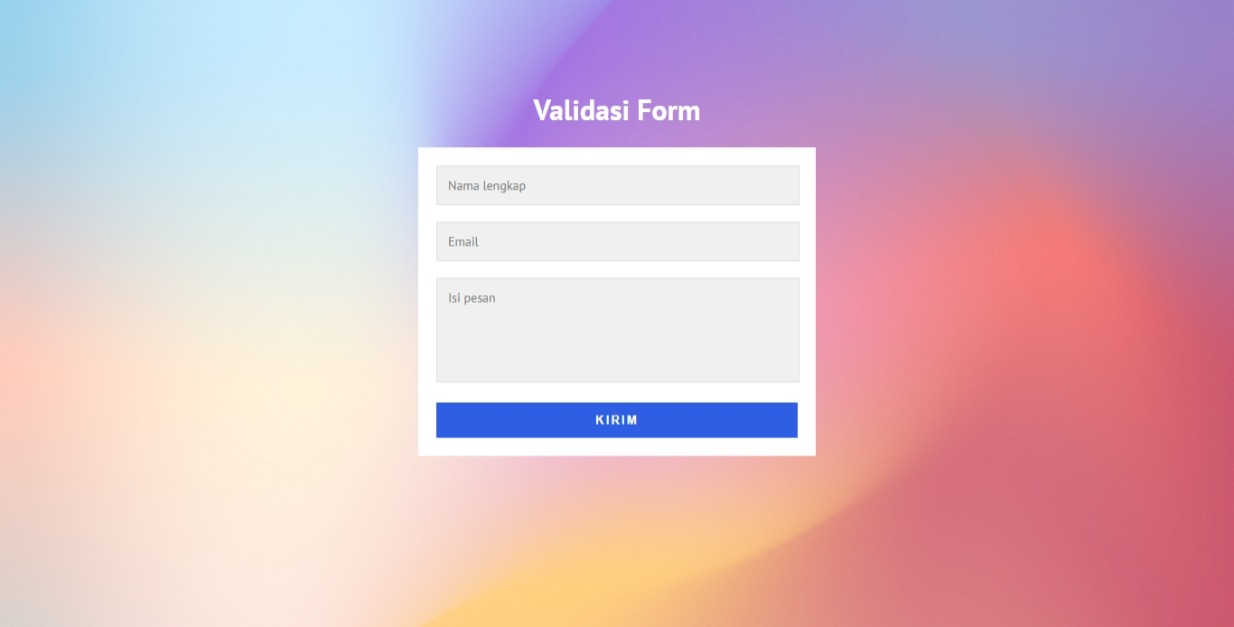
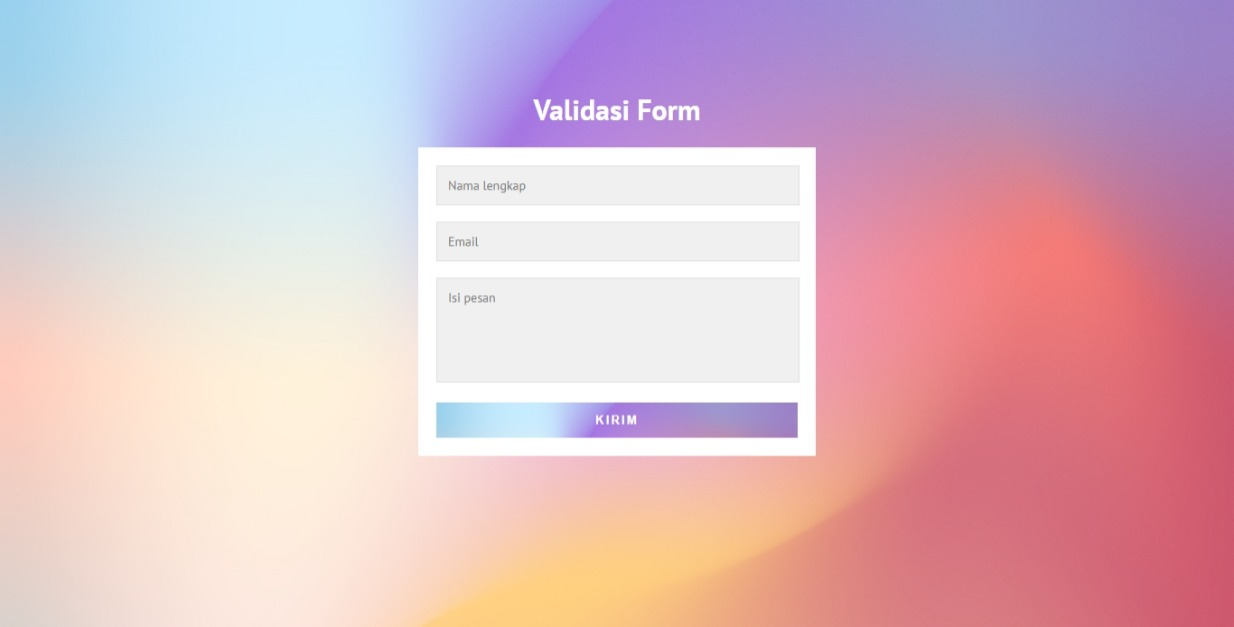
Update

Changed region(s): [[0.3387, 0.6364, 0.6467, 0.7273]]

diff --git a/html/lab5_javascript_tugas.html b/html/lab5_javascript_tugas.html
@@ -46,15 +46,16 @@
             width: 100%;
             color: #fff;
             border: none;
-            background: #2e5ee4;
+            background: url(https://miro.medium.com/v2/resize:fit:2000/1*z0kGxAWFi6z1SA-4rFgR2g.png);
+            background-size: cover;
             font-weight: 700;
             letter-spacing: 2px;
             cursor: pointer;
+            transition: .2s ease-in-out;
         }
 
         .btn:hover {
-            background: #244ab4;
-            transition: .2s ease-in-out;
+            background-position: center;
         }
     </style>
 </head>
